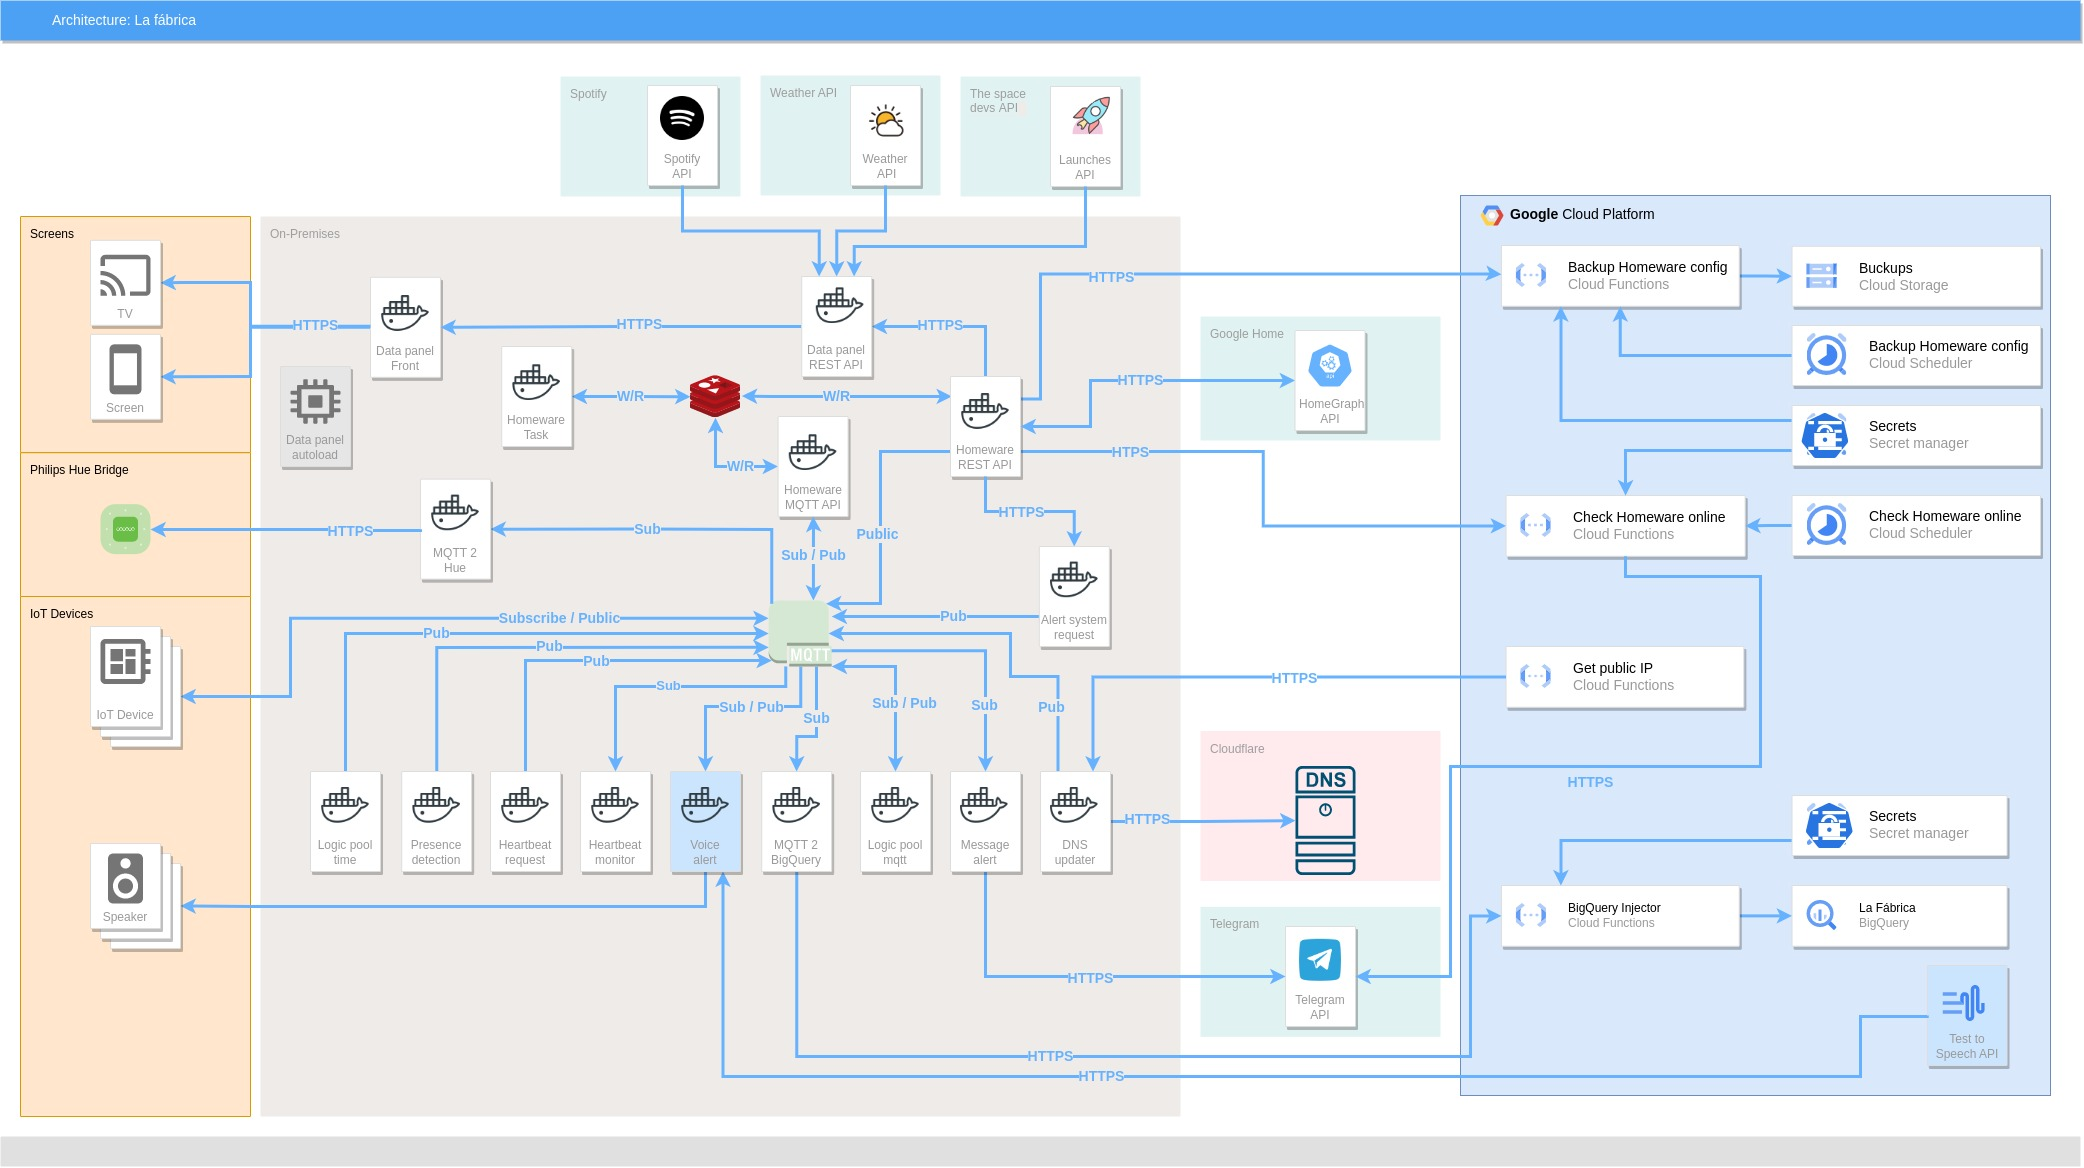
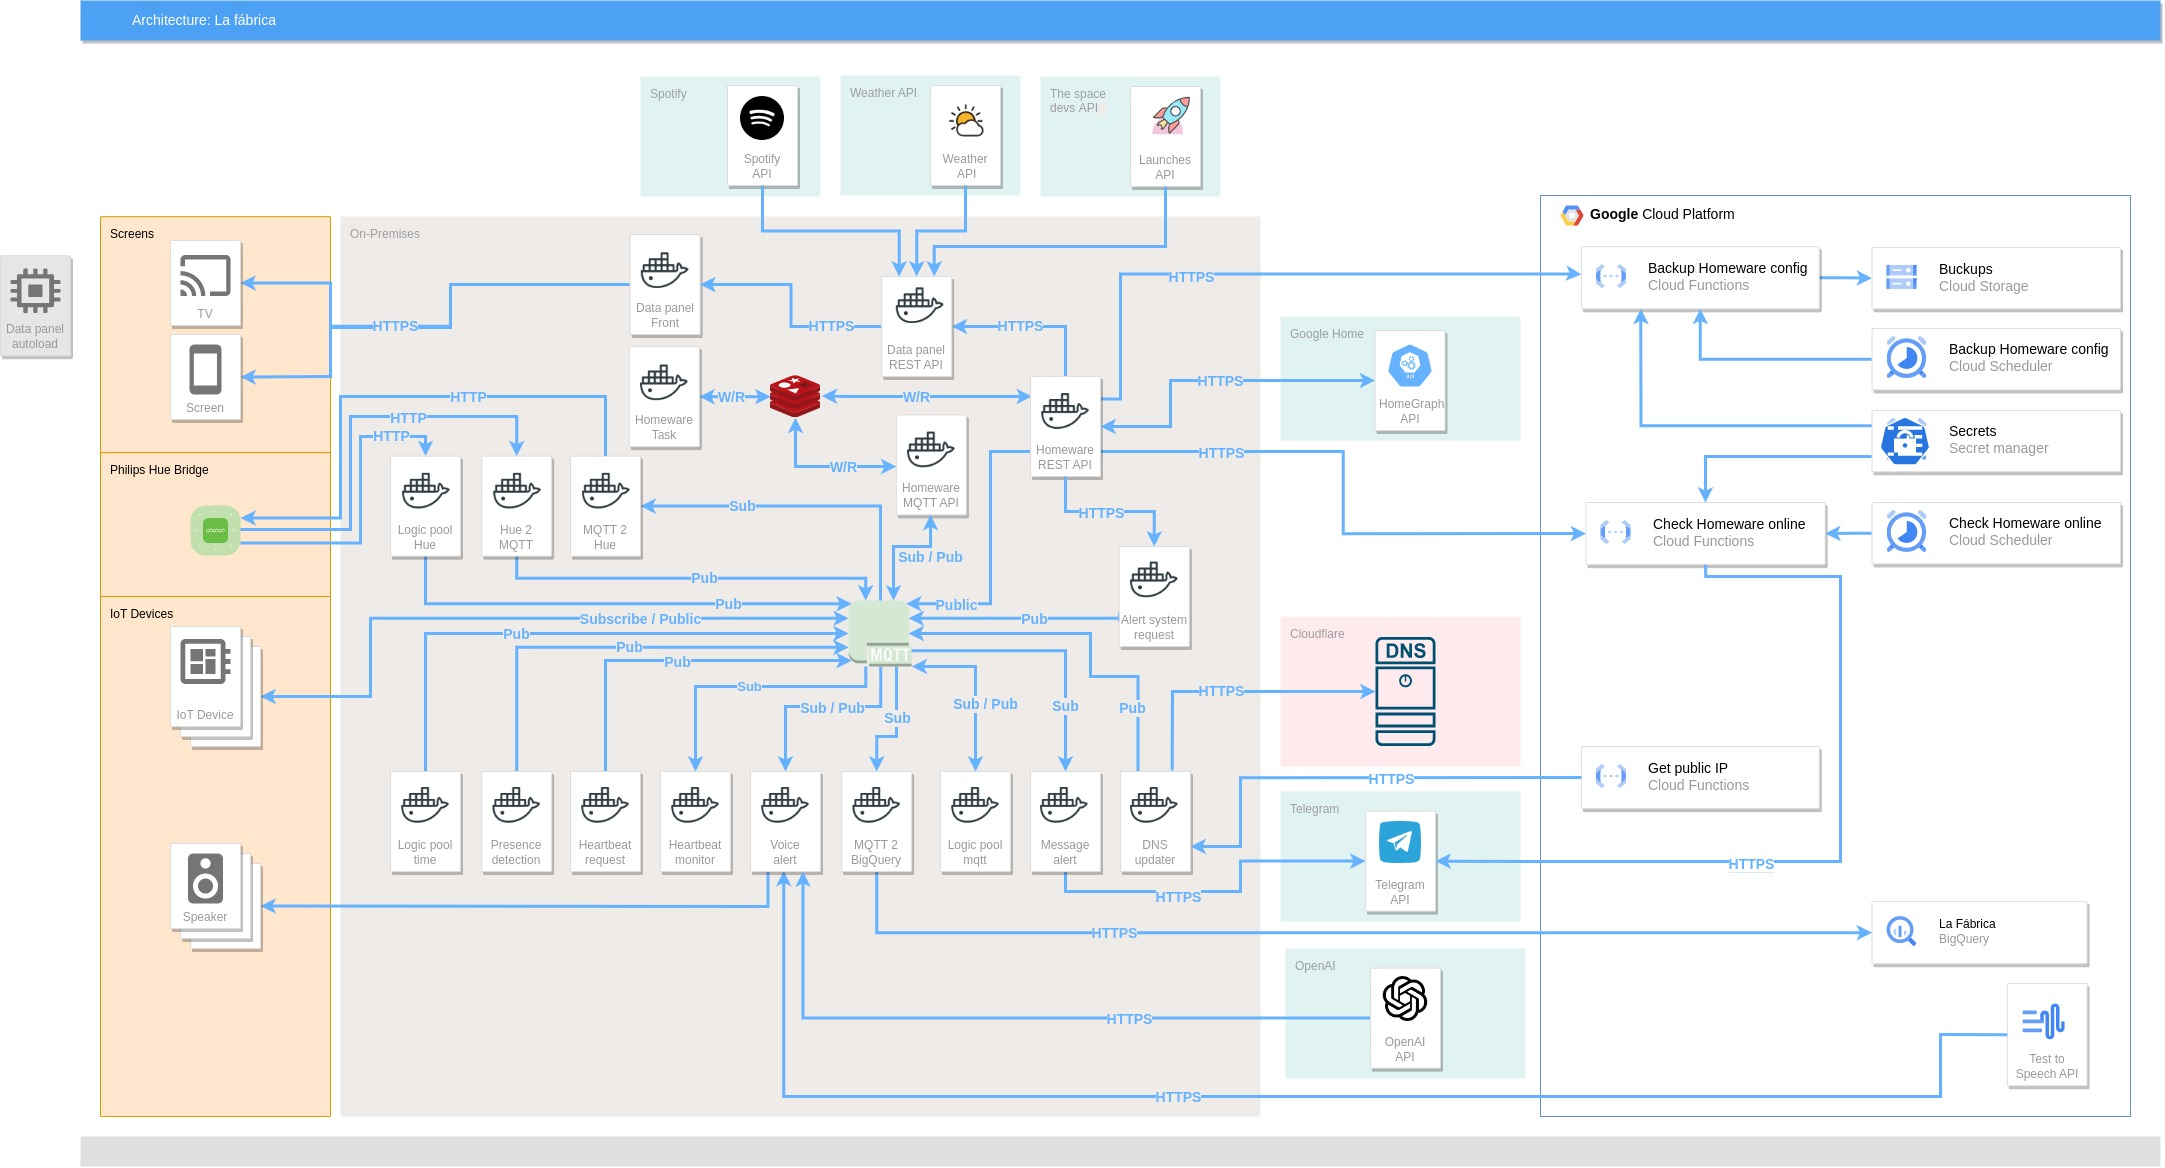
update docs

diff --git a/README.md b/README.md
@@ -35,6 +35,10 @@ This microservice requests heartbeats to the passive microservices. A microservi
 
 This microservice gets data from the Philips Hue Bridge and push it to Homeware via MQTT
 
+### Logic pool Hue
+
+This microservice is in charge of making logic relationships between Philips Hue switches and other devices and scenes. It interacts with Hue bridge API for detecting trigger events in the switches and making changes in devices.
+
 ### Logic pool MQTT
 
 This microservice is in charge of making logic relationships between devices and scenes. It interacts with Homeware MQTT API for detecting trigger events and making changes in devices.
